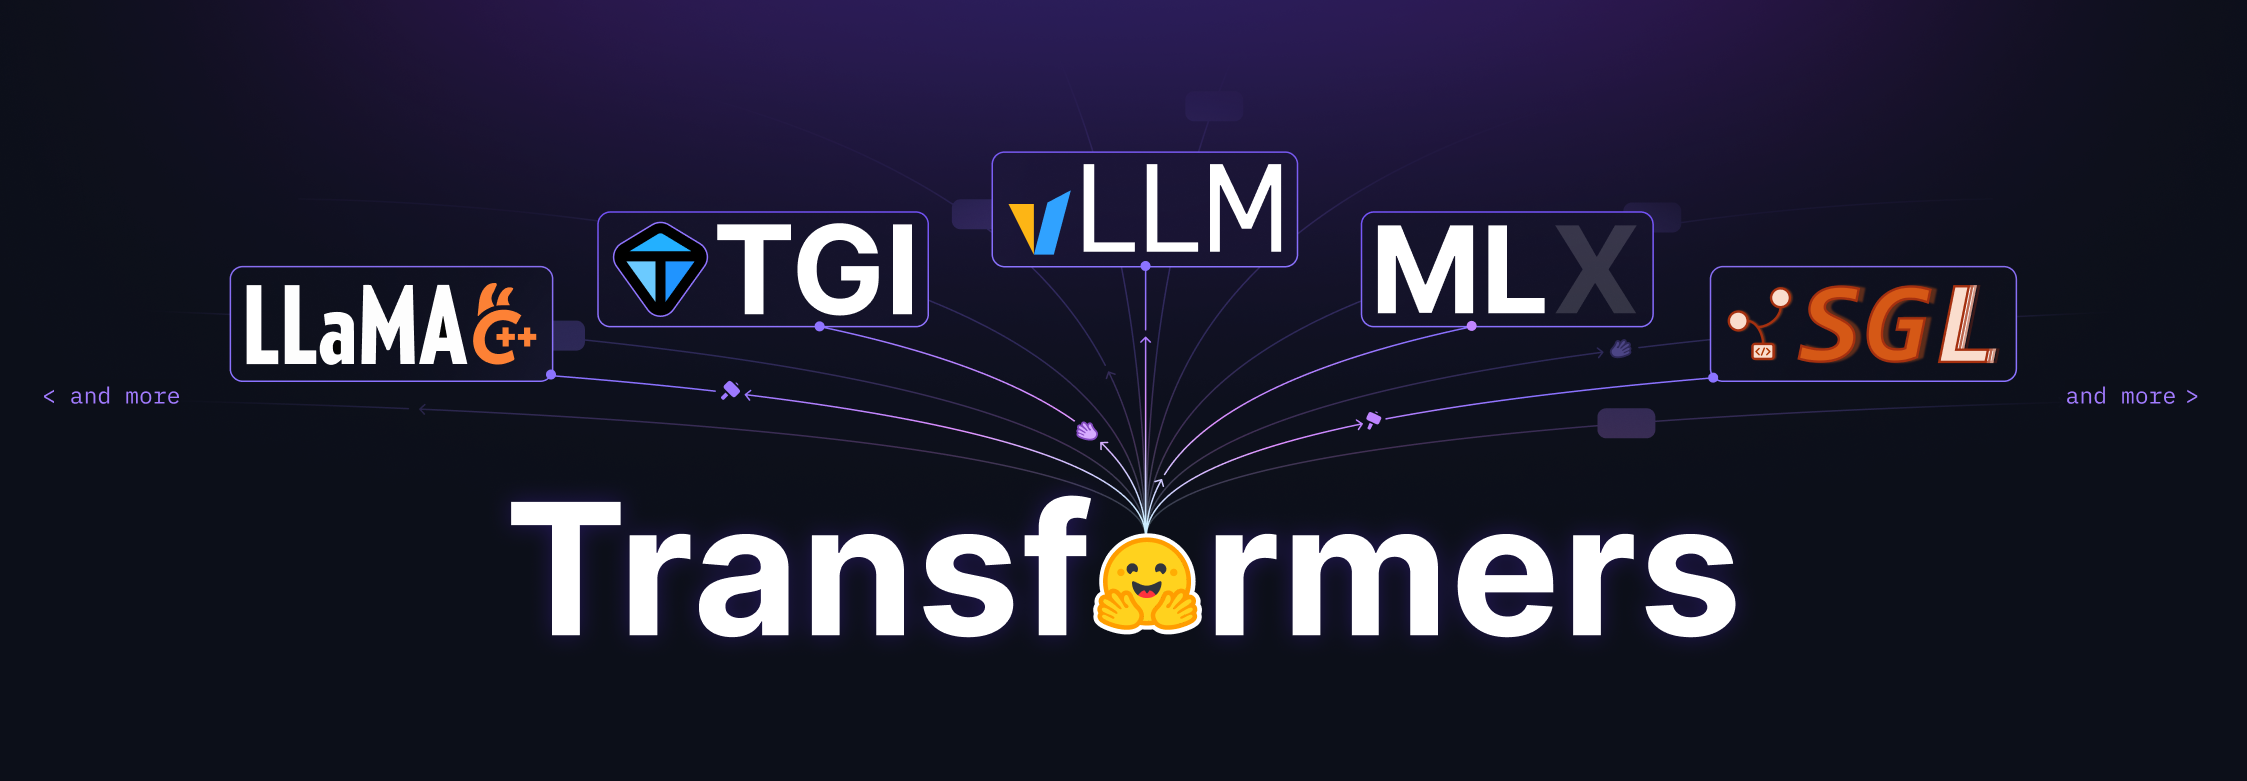
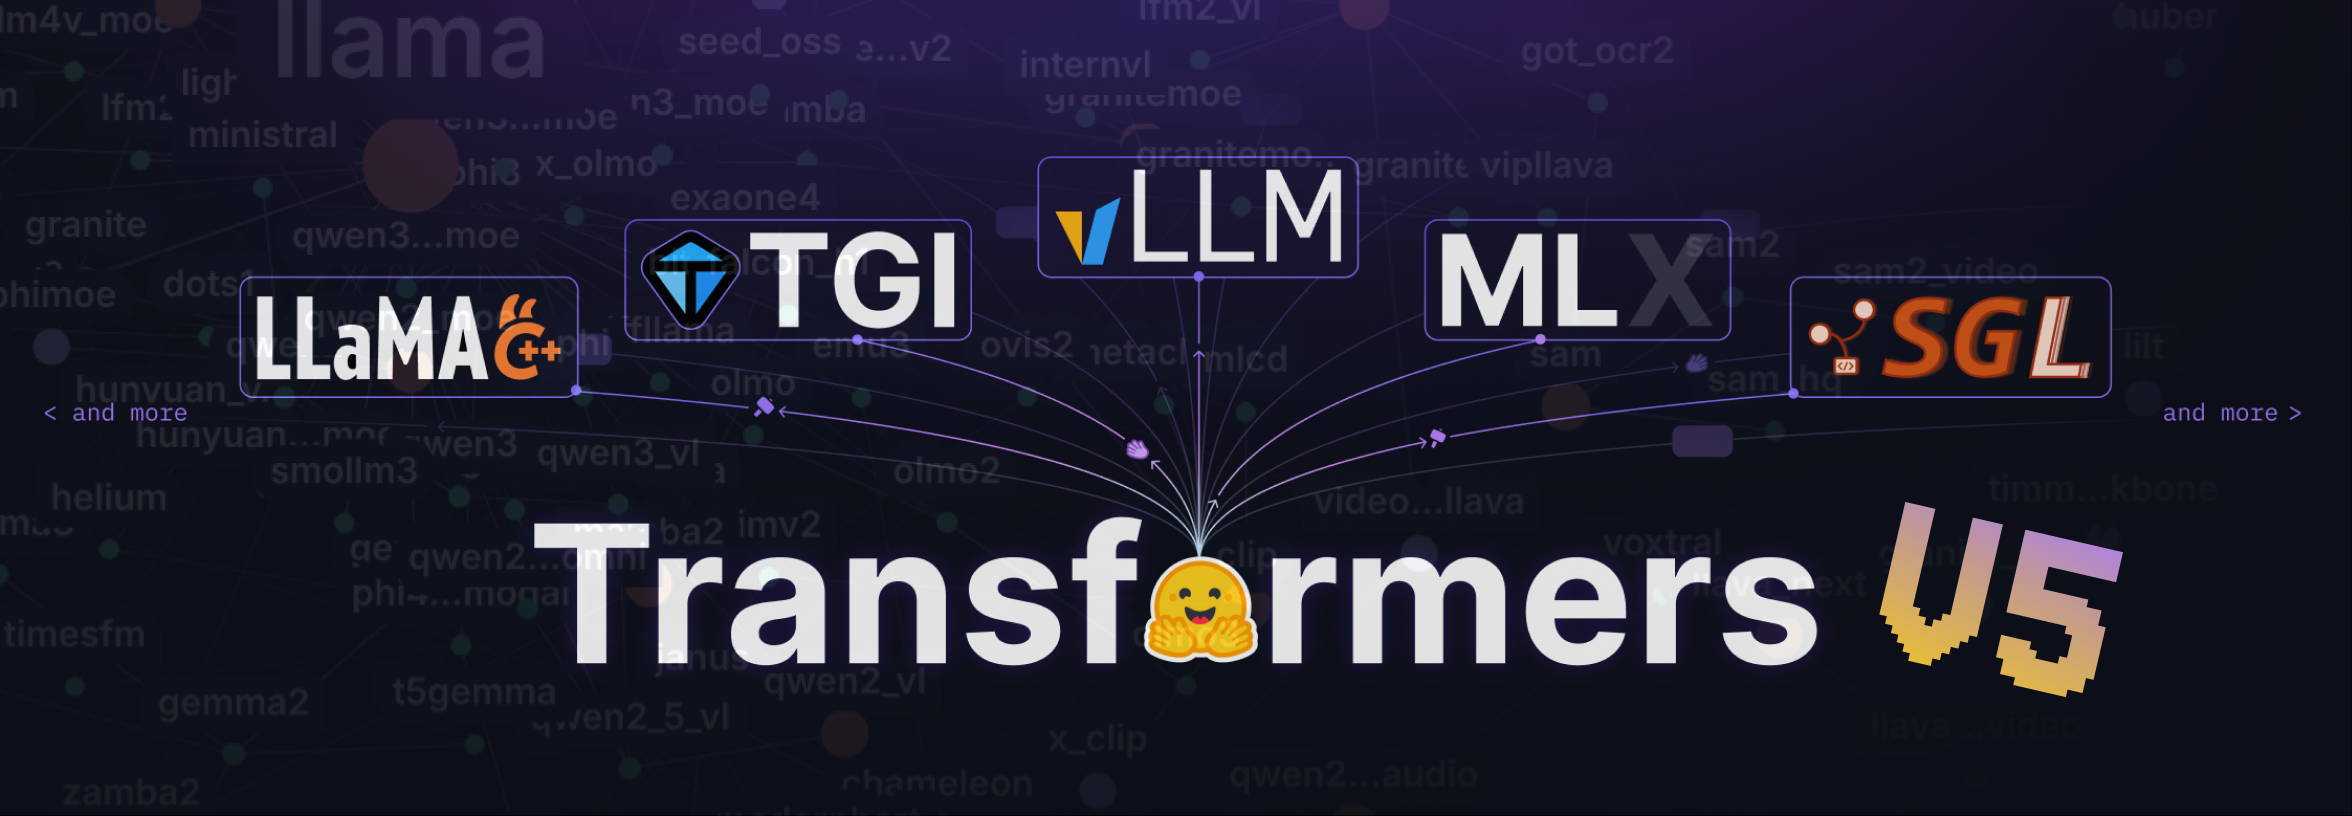
_blog.yml

diff --git a/transformers-v5.md b/transformers-v5.md
@@ -1,6 +1,6 @@
 ---
 title: "Transformers v5: Simple model definitions powering the AI ecosystem"
-thumbnail: /blog/assets/transformers-model-definition/transformers-thumbnail.png
+thumbnail: /blog/assets/transformers_v5/transformers-thumbnail.png
 authors:
   - user: lysandre
   - user: ArthurZ
